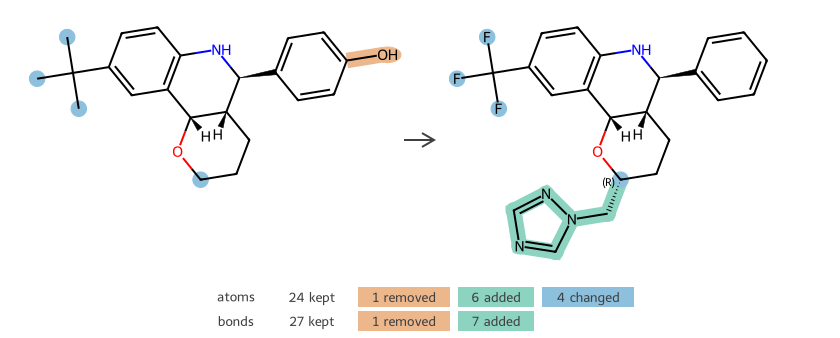
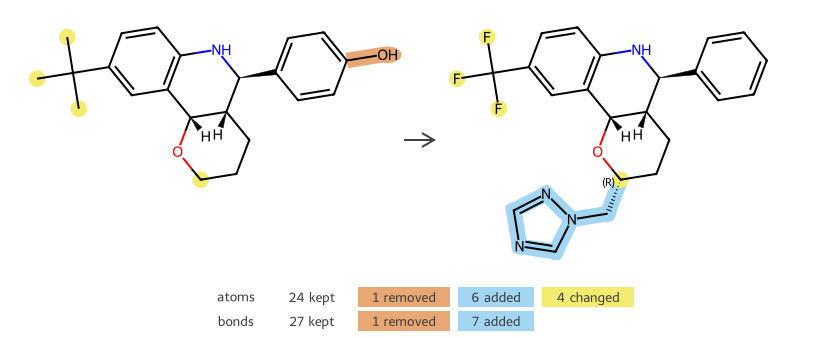
Draw with colors that stay apart under color blindness
The added (bluish green) and changed (blue) tints were 7.9 apart in OKLab with
normal vision and 7.1 under deuteranopia, as the dataviz palette validator
measures. Removed stays vermillion; added becomes sky blue and changed
yellow, at 15.2 under deuteranopia and protanopia, 14.5 under tritanopia and
18.0 with normal vision, dark ink keeping at least 5:1 contrast on each tint.
With vermillion and sky blue, only yellow hues pass every check.

diff --git a/src/atommapper/drawing.py b/src/atommapper/drawing.py
@@ -5,10 +5,11 @@ where the source has them, so a kept atom sits at the same place in each panel. 
 leaves is marked on the source and what arrives on the target; kept atoms and bonds that
 change (element, charge, order, stereo) are marked on both, a changed stereo element with
 its label on each side. A changed hydrogen count is not marked: a bond that forms or
-breaks at the atom already shows it. The marks are light tints under the structure, in
-colors of the Okabe-Ito palette, which stay distinct under the common forms of color
-blindness. A legend under the panels counts, for atoms and for bonds apart, what is kept,
-removed, added and changed.
+breaks at the atom already shows it. The marks are light tints under the structure, of
+three colors of the Okabe-Ito palette chosen to stay apart under deuteranopia, protanopia
+and tritanopia (OKLab distance at least 14 under each, as the dataviz palette validator
+measures, and at least 18 with full color vision). A legend under the panels counts, for
+atoms and for bonds apart, what is kept, removed, added and changed.
 """
 
 from pathlib import Path
@@ -32,18 +33,20 @@ def _rgb(code: str) -> Color:
     return (red, green, blue)
 
 
-def _tint(color: Color) -> Color:
-    """``color`` mixed with white, light enough to sit under bonds and labels."""
-    red, green, blue = (c + (1 - c) * 0.55 for c in color)
+def _tint(color: Color, white: float) -> Color:
+    """``color`` mixed with a fraction ``white`` of white, light enough to sit under bonds
+    and labels (dark ink on each tint below keeps a contrast of at least 5:1)."""
+    red, green, blue = (c + (1 - c) * white for c in color)
     return (red, green, blue)
 
 
-REMOVED: Color = _tint(_rgb("D55E00"))
+REMOVED: Color = _tint(_rgb("D55E00"), 0.45)
 """Atoms and bonds only in the source (a tint of vermillion)."""
-ADDED: Color = _tint(_rgb("009E73"))
-"""Atoms and bonds only in the target (a tint of bluish green)."""
-CHANGED: Color = _tint(_rgb("0072B2"))
-"""Kept atoms and bonds that change (a tint of blue)."""
+ADDED: Color = _tint(_rgb("56B4E9"), 0.45)
+"""Atoms and bonds only in the target (a tint of sky blue)."""
+CHANGED: Color = _tint(_rgb("F0E442"), 0.25)
+"""Kept atoms and bonds that change (a tint of yellow, less white since yellow is light
+already)."""
 
 UNMARKED_ATTRIBUTES = frozenset({"hcount"})
 """Atom changes left unmarked: implied by the bonds that form or break."""

diff --git a/README.md b/README.md
@@ -71,9 +71,9 @@ counts what is kept, removed, added and changed, with atoms and bonds in separat
 - **Aligned.** Both panels share one scale and one origin, and the target is drawn with its
   kept atoms where the source has them, so a kept atom is at the same place in each panel.
 - **Marked.** Light tints under the structure show what leaves (vermillion, on the source),
-  what arrives (green, on the target), and which kept atoms and bonds change (blue, on
-  both): element, charge, bond order or stereo. The colors stay distinct under the common
-  forms of color blindness.
+  what arrives (sky blue, on the target), and which kept atoms and bonds change (yellow, on
+  both): element, charge, bond order or stereo. The three colors stay apart under
+  deuteranopia, protanopia and tritanopia, and the legend names each one.
 - **Stereo.** An inverted centre carries its label on each side, (R) and (S), and an
   inverted double bond (E) and (Z). Every double bond is drawn with the geometry the
   molecule has, even when that moves kept atoms away from the source's positions.
